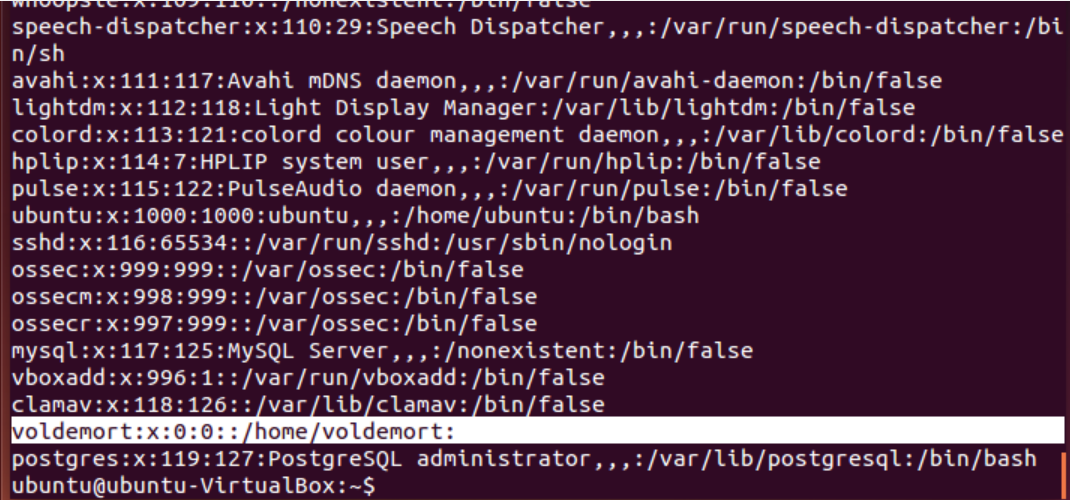
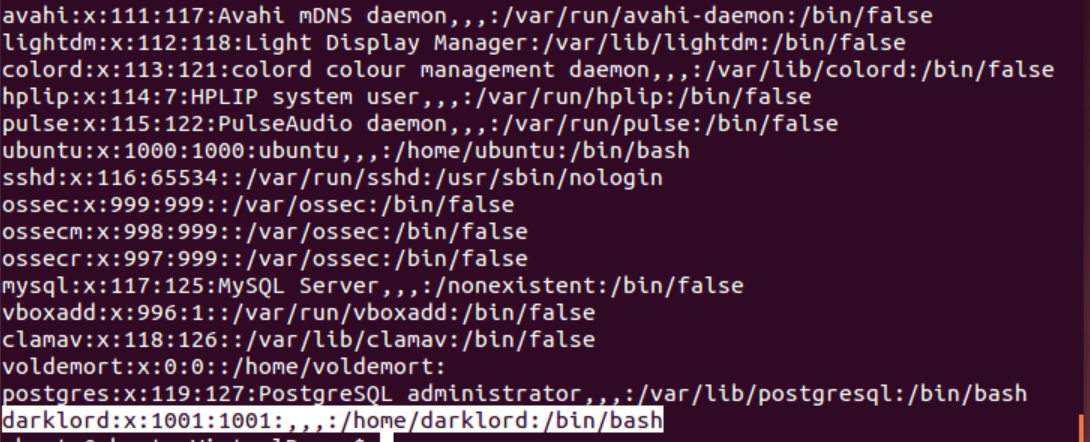
docs: Fix the rouge username

diff --git a/README.md b/README.md
@@ -72,7 +72,7 @@ By use the following command:
 ```
 cat /etc/passwd
 ```  
-We can see the backdoor username is voldemort and its uid is 0.  
+We can see the attackers is voldemort and its uid is 0 and the rouge username added by the attackers voldemort is darklord.
 ![image14]  
 
 Futher look into the year 2020 /var/log/auth.log by using the following command:
@@ -84,17 +84,7 @@ We can see the voldemort trying login in the system as root from identify its ui
 
 ![image15]  
 ![image16] 
-Then we further investigate the processes that is running by voldemort.
-
-```
-ps -u voldemort
-```
-
-![image17]  
-![image18] 
-![image19]   
-![image20]
-![image21]  
+ 
 Also, we can use the following command to see the malicious process and port that is listen by voldemort.
 ````
 sudo netstat -tulpn
@@ -102,7 +92,7 @@ sudo netstat -tulpn
 
 ![image22]  
 
-    - Username: voldemort
+    - Username: darklord
     - Process: remotesec
     - Port: 56565
 
